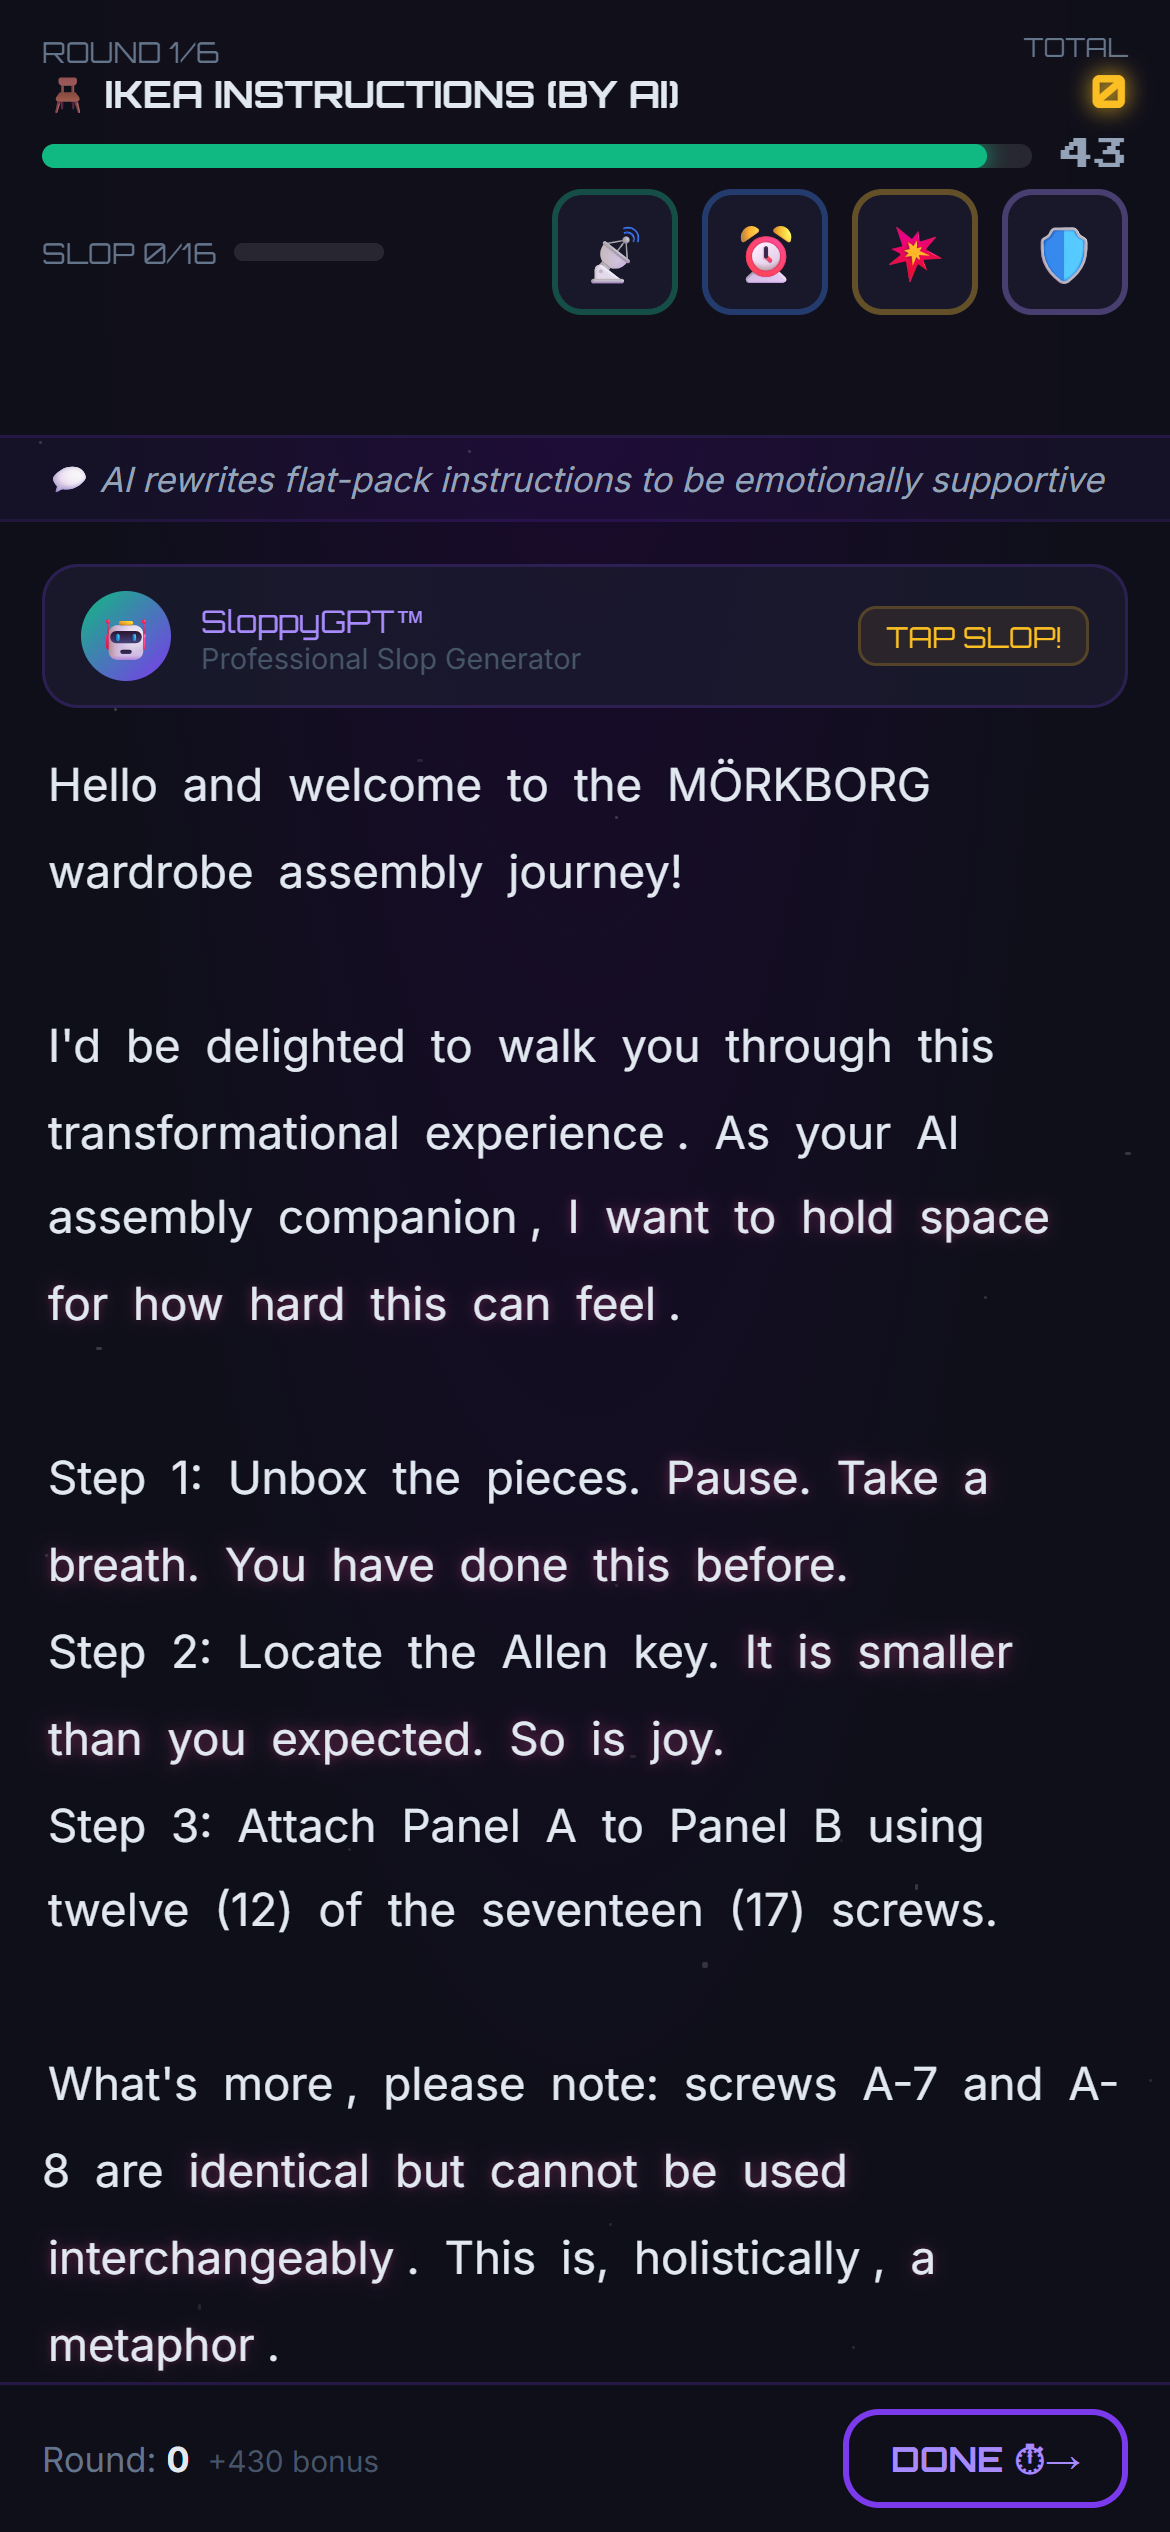
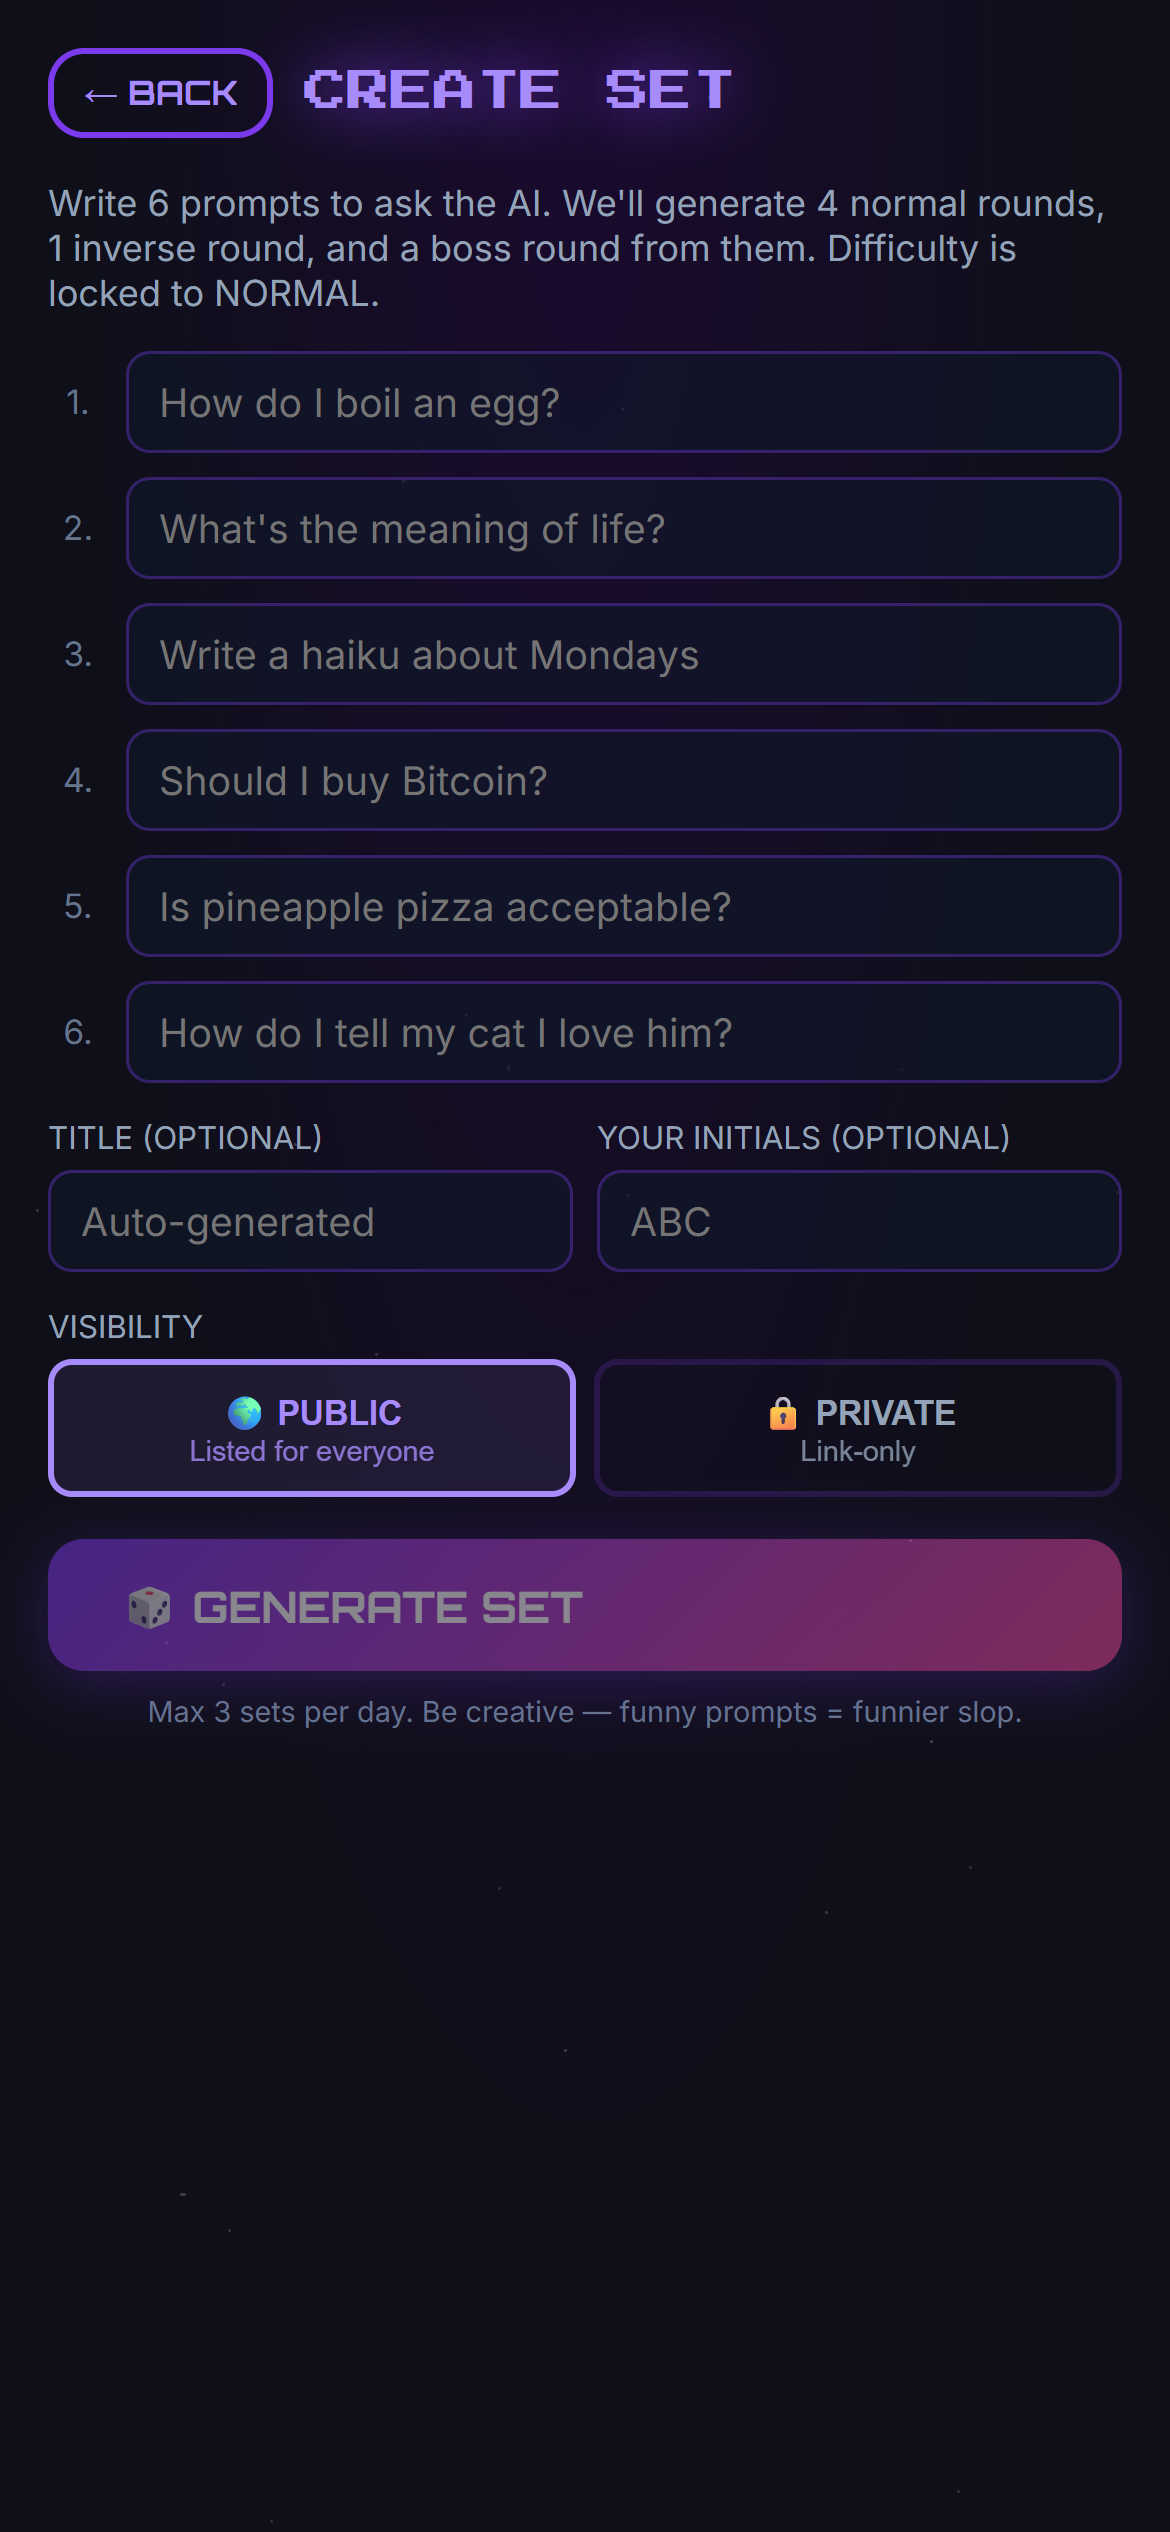
email and assets change

diff --git a/www/index.php b/www/index.php
@@ -433,7 +433,7 @@ header('Content-Type: text/html; charset=utf-8');
     <footer>
       <div class="footer-links">
         <a href="privacy.php">Privacy Policy</a>
-        <a href="mailto:[email redacted]">Contact</a>
+        <a href="mailto:[email redacted]">Contact</a>
       </div>
       <div>&copy; <?= date('Y') ?> AI Slop Royal &mdash; Built by humans, for spotting machines.</div>
     </footer>

diff --git a/www/privacy.php b/www/privacy.php
@@ -222,7 +222,7 @@ $updated = '2026-05-12';
       <h2>Contact</h2>
       <p>
         Questions, concerns, or removal requests:<br>
-        <a href="mailto:[email redacted]">[email redacted]</a>
+        <a href="mailto:[email redacted]">[email redacted]</a>
       </p>
     </main>
 